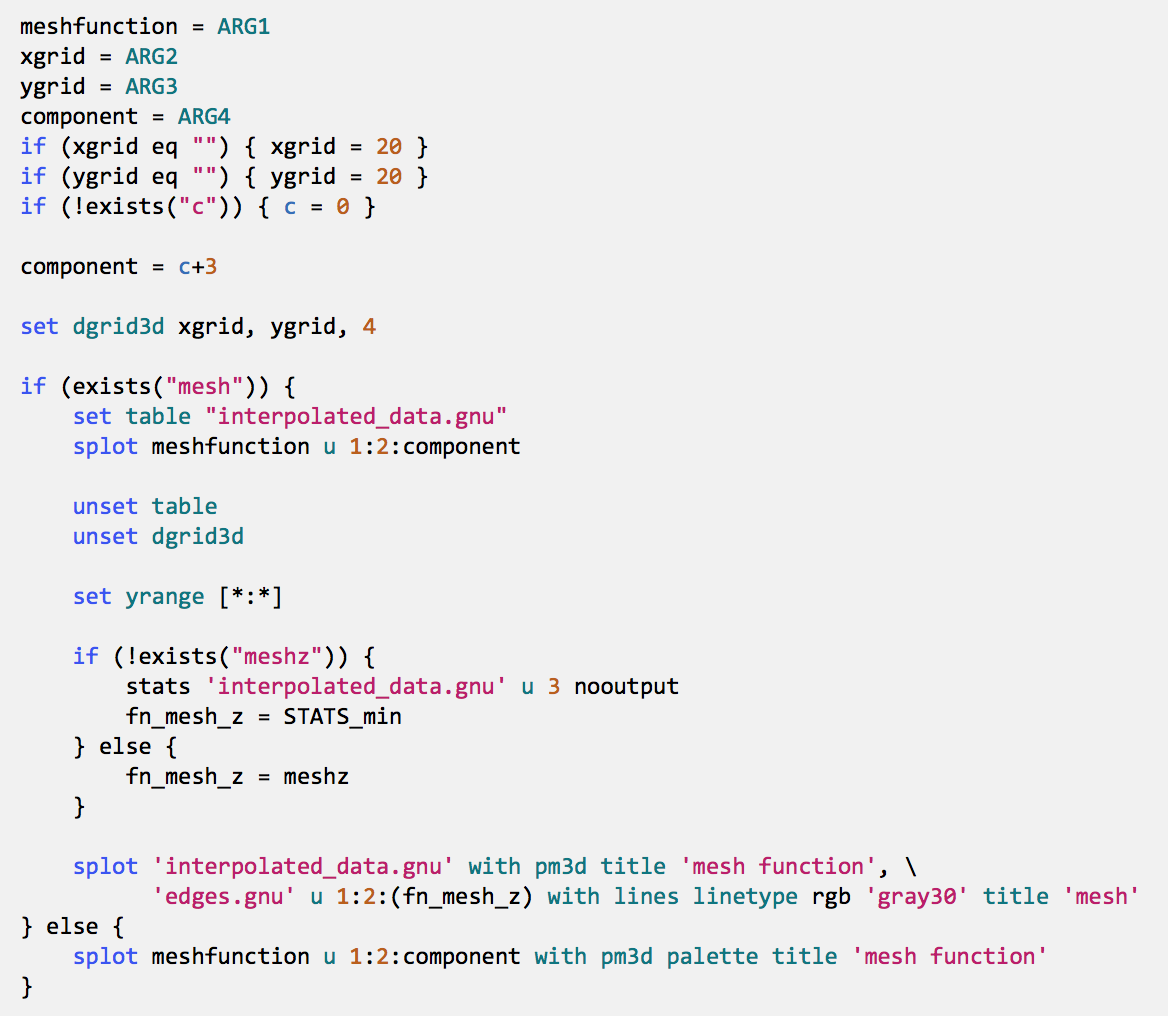
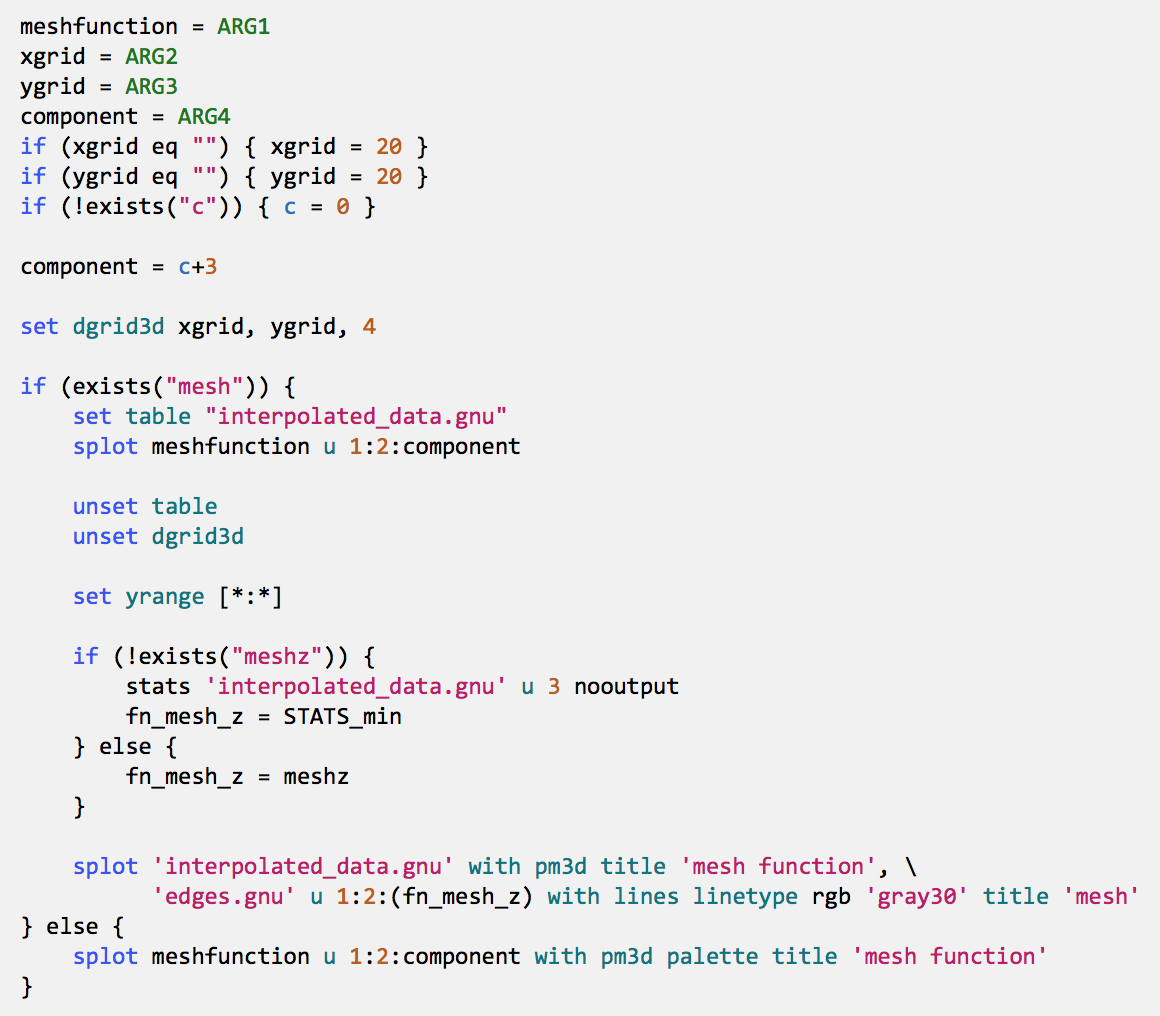
Updated screenshot

diff --git a/README.md b/README.md
@@ -2,7 +2,7 @@
 
 ### Example ###
 
-<img src=sample.png width="584" height="508">
+<img src=sample.png width="580" height="508">
 
 ### Features ###
 * Highlight keywords and common abbreviations
